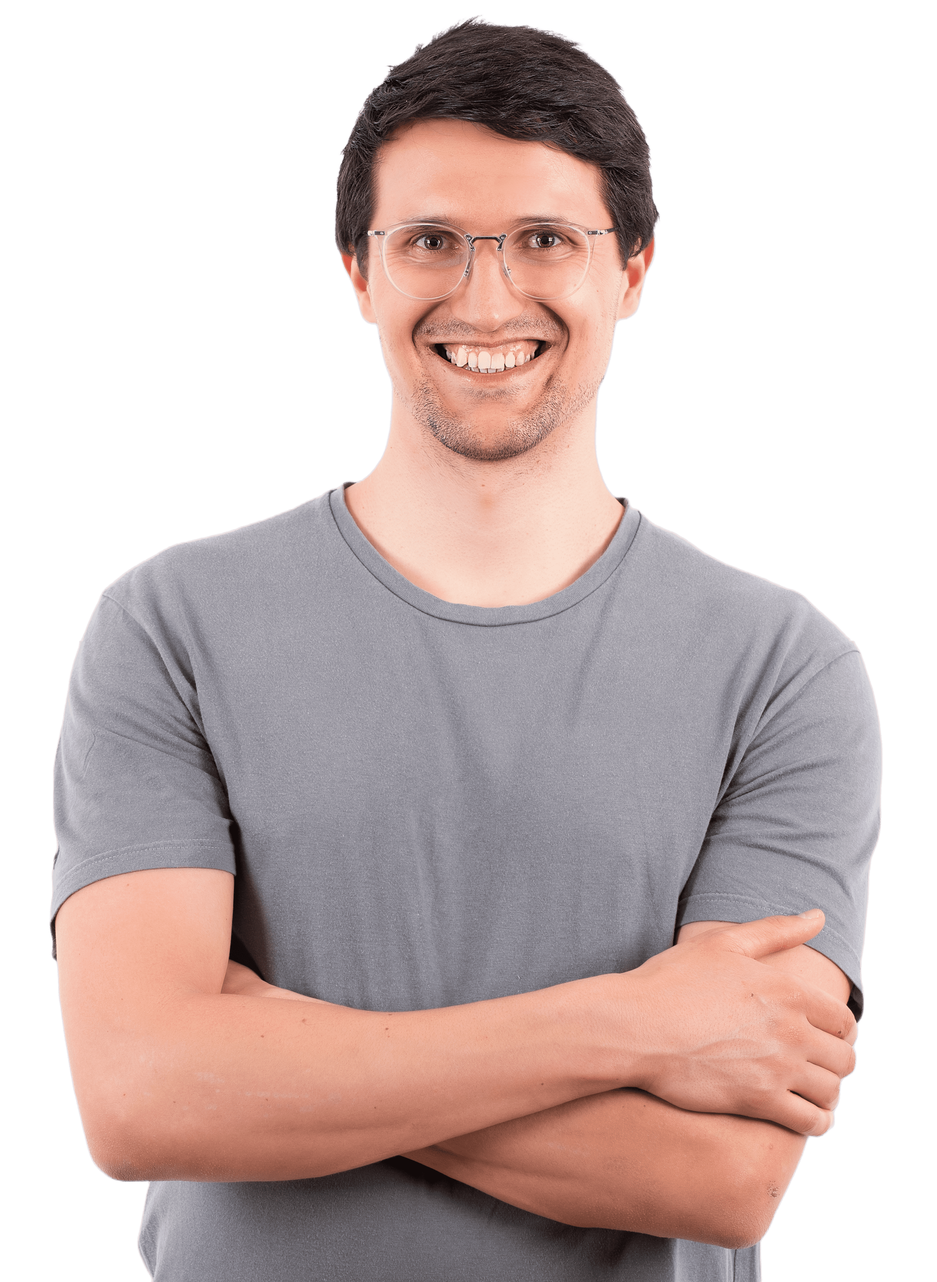
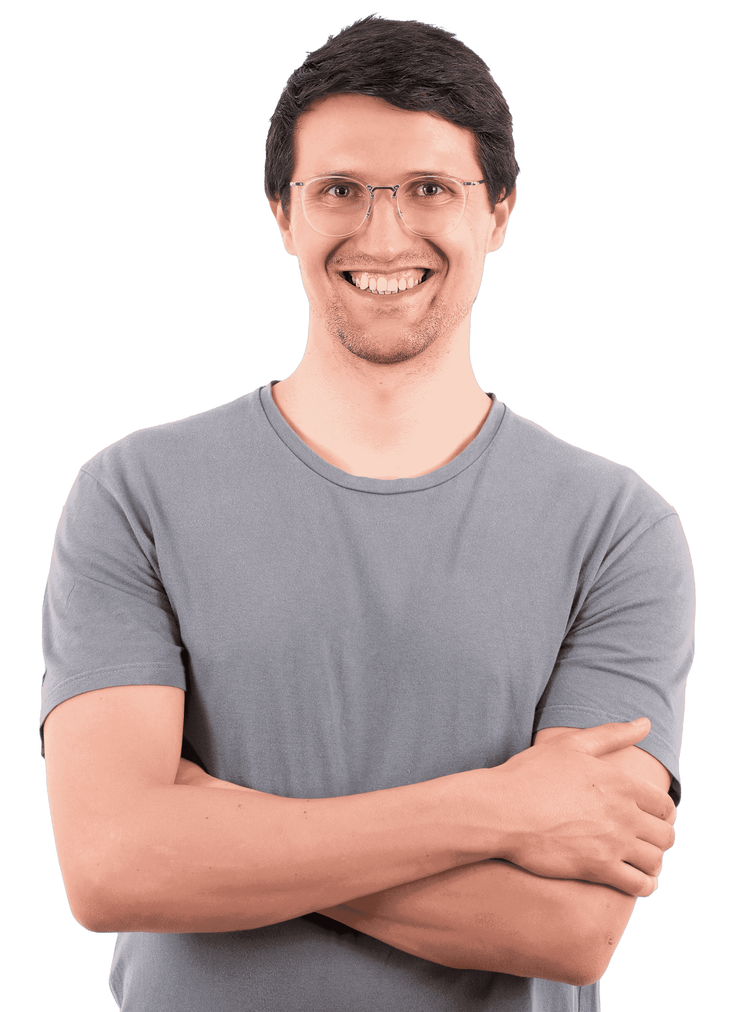
test commit

diff --git a/src/app/contact/contact.component.html b/src/app/contact/contact.component.html
@@ -3,11 +3,12 @@
         <div class="left-column">
             <div>
                 <div class="line-left"></div>
-                <h1 data-aos="fade-right" translate>Contact</h1>
+                <h1 data-aos="fade-right" data-aos-once="true" translate>Contact</h1>
             </div>
-            <div data-aos="fade-right">
+            <div data-aos="fade-right" data-aos-once="true">
                 <h2 translate>Got a problem to solve?</h2>
-                <p translate>Contact me through this form, I am interested in hearing you, knowing your ideas and contributing to
+                <p translate>Contact me through this form, I am interested in hearing you, knowing your ideas and
+                    contributing to
                     your
                     projects with my work.</p>
                 <p translate>Need a Frontend developer? <b translate>Contact me!</b></p>
@@ -15,22 +16,21 @@
         </div>
         <div class="right-column">
             <form (submit)="sendMail()" ngNativeValidate #myForm>
-                <input id="name" required placeholder="Your name" type="text" name="name"
-                    pattern="([a-zA-ZäöüÄÖÜß]+\s+){1,10}([a-zA-ZäöüÄÖÜß]+)"
-                    title="Bitte gib eine Vor- und Nachnamen ein!" #nameField data-aos="fade-left">
+                <input id="name" required placeholder="Your name" type="text" name="name" #nameField
+                    data-aos="fade-left" data-aos-once="true">
                 <input id="mail" required placeholder="Your email" type="email" name="mail"
                     pattern="(?:[a-z0-9!#$%&'*+/=?^_`{|}~-]+(?:\.[a-z0-9!#$%&'*+/=?^_`{|}~-]+)*|\u0022(?:[\x01-\x08\x0b\x0c\x0e-\x1f\x21\x23-\x5b\x5d-\x7f]|\\[\x01-\x09\x0b\x0c\x0e-\x7f])*\u0022)@(?:(?:[a-z0-9](?:[a-z0-9-]*[a-z0-9])?\.)+[a-z0-9](?:[a-z0-9-]*[a-z0-9])?|\[(?:(?:25[0-5]|2[0-4][0-9]|[01]?[0-9][0-9]?)\.){3}(?:25[0-5]|2[0-4][0-9]|[01]?[0-9][0-9]?|[a-z0-9-]*[a-z0-9]:(?:[\x01-\x08\x0b\x0c\x0e-\x1f\x21-\x5a\x53-\x7f]|\\[\x01-\x09\x0b\x0c\x0e-\x7f])+)\])"
-                    title="Gib eine gültige E-Mail-Adresse ein! Umlaute sind nicht erlaubt!" #mailField
-                    data-aos="fade-left">
+                    #mailField data-aos="fade-left" data-aos-once="true">
                 <textarea id="message" required placeholder="Your message" type="text" name="message" #messageField
-                    data-aos="fade-left"></textarea>
-                <div class="button-container" data-aos="fade-left">
-                    <button id="sendButton" #sendButton class="btn-orange" [ngClass]="{'confirmation': messageSent === true}" translate>Send message :)</button>
+                    data-aos="fade-left" data-aos-once="true"></textarea>
+                <div class="button-container" data-aos="fade-left" data-aos-once="true">
+                    <button id="sendButton" #sendButton class="btn-orange"
+                        [ngClass]="{'confirmation': messageSent === true}" translate>Send message :)</button>
                 </div>
             </form>
         </div>
-    </div> 
-    <div class="lower-container" data-aos="fade-up">
+    </div>
+    <div class="lower-container" data-aos="fade-up" data-aos-once="true">
         <a (click)="scrollToStart()">
             <img #arrowUp src="../../assets/img/go-up.png"
                 (mouseover)="changeImgSrc('../../assets/img/go-up-orange.png')"

diff --git a/src/app/my-skills/my-skills.component.html b/src/app/my-skills/my-skills.component.html
@@ -2,65 +2,65 @@
     <img class="splash-my-skills" src="../../assets/img/splash-my-skills.png" alt="splash-my-skills">
     <div class="icons-container">
         <div class="icons-inner-container">
-            <div data-aos="zoom-in">
+            <div data-aos="zoom-in" data-aos-once="true">
                 <img src="../../assets/img/angular.png">
                 <span>Angular</span>
             </div>
 
-            <div data-aos="zoom-in">
+            <div data-aos="zoom-in" data-aos-once="true">
                 <img src="../../assets/img/typescript.png">
                 <span>TypeScript</span>
             </div>
 
-            <div data-aos="zoom-in">
+            <div data-aos="zoom-in" data-aos-once="true">
                 <img src="../../assets/img/javascript.png">
                 <span>JavaScript</span>
             </div>
 
-            <div data-aos="zoom-in">
+            <div data-aos="zoom-in" data-aos-once="true">
                 <img src="../../assets/img/html.png">
                 <span>HTML</span>
             </div>
 
-            <div data-aos="zoom-in">
+            <div data-aos="zoom-in" data-aos-once="true">
                 <img src="../../assets/img/firebase.png">
                 <span>Firebase</span>
             </div>
 
-            <div data-aos="zoom-in">
+            <div data-aos="zoom-in" data-aos-once="true">
                 <img src="../../assets/img/git.png">
                 <span>Git</span>
             </div>
 
-            <div data-aos="zoom-in">
+            <div data-aos="zoom-in" data-aos-once="true">
                 <img src="../../assets/img/css.png">
                 <span>CSS</span>
             </div>
 
-            <div data-aos="zoom-in">
+            <div data-aos="zoom-in" data-aos-once="true">
                 <img src="../../assets/img/scrum.png">
                 <span>Scrum</span>
             </div>
 
-            <div data-aos="zoom-in">
+            <div data-aos="zoom-in" data-aos-once="true">
                 <img src="../../assets/img/rest-api.png">
                 <span>API</span>
             </div>
 
-            <div data-aos="zoom-in">
+            <div data-aos="zoom-in" data-aos-once="true">
                 <img src="../../assets/img/material-design.png">
                 <span>Material Design</span>
             </div>
         </div>
     </div>
     <div class="skill-container">
-        <div class="head-skill" data-aos="fade-left">
+        <div class="head-skill" data-aos="fade-left" data-aos-once="true">
             <h1 translate>My skills</h1>
             <div class="line-right"></div>
         </div>
         <div class="skill-text">
-            <span data-aos="fade-left" translate>I have been able to grow my developement skills while creating various real projects. Have a look!</span>
-            <a (click)="scrollToSection('contact')"><button class="btn-orange" data-aos="fade-up" translate>Get in touch</button></a>
+            <span data-aos="fade-left" data-aos-once="true" translate>I have been able to grow my developement skills while creating various real projects. Have a look!</span>
+            <a (click)="scrollToSection('contact')"><button class="btn-orange" data-aos="fade-up" data-aos-once="true" translate>Get in touch</button></a>
         </div>
     </div>
 </section>

diff --git a/src/app/about-me/about-me.component.html b/src/app/about-me/about-me.component.html
@@ -1,22 +1,22 @@
 <section id="about-me" class="about-me">
     <div class="container-left">
         <div class="container-left-inner">
-            <h1 data-aos="fade-right" translate>About me</h1>
-            <p data-aos="fade-right" translate>I am a front-end developer based in Tübingen, Germany with experience in
+            <h1 data-aos="fade-right" data-aos-once="true" translate>About me</h1>
+            <p data-aos="fade-right" data-aos-once="true" translate>I am a front-end developer based in Tübingen, Germany with experience in
                 building web apps using JavaScript & Angular. My journey in IT began many years ago during my studies
                 when I started to write simple add-on programs using Python in order to analyze spatial data using
                 graphical information systems.</p>
-            <div class="text-container" data-aos="fade-right">
+            <div class="text-container" data-aos="fade-right" data-aos-once="true">
                 <div>
                     <img class="lamp" src="../../assets/img/lamp.png" alt="lamp">
                 </div>
                 <p translate>That experience sparked my interest in the field, and my passion for programming has never
                     faded. Since then, I have continued to dive deeper into the world of technology and have explored
-                    variousprogramming languages and tools. Close contact with my father-in-law, a self-taught and
-                    experiencedweb developer, has also fed my enthusiasm to become a developer myself and given me
+                    various programming languages and tools. Close contact with my father-in-law, a self-taught and
+                    experienced web developer, has also fed my enthusiasm to become a developer myself and given me
                     important insights into the world of professional development.</p>
             </div>
-            <div class="text-container" data-aos="fade-right">
+            <div class="text-container" data-aos="fade-right" data-aos-once="true">
                 <div>
                     <img src="../../assets/img/puzzle.png" alt="puzzle">
                 </div>
@@ -27,7 +27,7 @@
             </div>
         </div>
     </div>
-    <div class="container-right" data-aos="fade-left">
+    <div class="container-right" data-aos="fade-left" data-aos-once="true">
         <div class="img-container">
             <div class="img-inner-container">
                 <img src="../../assets/img/head.png" alt="foto-head">

diff --git a/src/app/start-screen/start-screen.component.scss b/src/app/start-screen/start-screen.component.scss
@@ -84,7 +84,7 @@
     }
 
     @media screen and (max-height: 900px) and (max-width: 992px) {
-        top: 180px;
+        top: 200px;
     }
 
     @media screen and (max-width: 900px) and (min-height: 950px) {
@@ -100,17 +100,24 @@
     }
 
     @media screen and (max-width: 900px) and (min-height: 1300px) {
-        top: 350px;
+        top: 400px;
+    }
+
+    @media screen and (max-width: 900px) and (min-height: 1350px) {
+        top: 450px;
+    }
+
+    @media screen and (max-width: 900px) and (min-height: 1400px) {
+        top: 500px;
     }
 
     @media screen and (max-height: 800px) and (max-width: 992px) {
         width: 300px;
-        top: 190px;
+        top: 220px;
     }
 
     @media screen and (max-height: 750px) and (max-width: 992px) {
         width: 250px;
-        top: 190px;
     }
 
     @media screen and (max-height: 700px) and (max-width: 992px) {
@@ -120,6 +127,10 @@
 
     @media screen and (max-height: 650px) and (max-width: 992px) {
         width: 200px;
+    }
+
+    @media screen and (max-height: 600px) and (max-width: 992px) {
+        width: 180px;
         top: 230px;
     }
 }
@@ -159,6 +170,11 @@
     @media screen and (max-height: 800px) and (max-width: 900px) {
         top: 200px;
         width: 400px;
+    }
+
+    @media screen and (max-height: 700px) and (max-width: 900px) {
+        top: 200px;
+        width: 250px;
     }
 }
 

diff --git a/src/app/project/project.component.html b/src/app/project/project.component.html
@@ -1,4 +1,4 @@
-<div class="project-container" [ngClass]="{'reversed': indexImpair === true}" data-aos="fade-up">
+<div class="project-container" [ngClass]="{'reversed': indexImpair === true}" data-aos="fade-up" data-aos-once="true">
     <div class="img-container">
         <div [ngClass]="{'jc-flex-end': indexImpair === false}">
             <img src="../../assets/img/{{img}}-screen.png" alt="{{img}}-screen">
@@ -13,9 +13,9 @@
             <span [ngClass]="{'text-end': indexImpair === true}" translate>{{ explanation }}</span>
         </div>
         <div class="button-box" [ngClass]="{'jc-flex-end': indexImpair === true}">
-            <a href="https://{{web}}.hans-stieber.com" target="_blank" data-aos="fade-up"><button
-                    class="b1" translate>Live test</button></a>
-            <a href="{{git}}" target="_blank"><button class="b2" data-aos="fade-up">Github</button></a>
+            <a href="https://{{web}}.hans-stieber.com" target="_blank" data-aos="fade-up" data-aos-once="true"><button class="b1"
+                    translate>Live test</button></a>
+            <a href="{{git}}" target="_blank"><button class="b2" data-aos="fade-up" data-aos-once="true">Github</button></a>
         </div>
     </div>
 </div>

diff --git a/src/app/portfolio/portfolio.component.html b/src/app/portfolio/portfolio.component.html
@@ -1,10 +1,10 @@
 <section id="portfolio" class="portfolio">
-    <div class="headline-container" data-aos="fade-left">
+    <div class="headline-container" data-aos="fade-left" data-aos-once="true">
         <div></div>
         <h1 translate>Portfolio</h1>
         <div></div>
     </div>
-    <div data-aos="fade-right">
+    <div data-aos="fade-right" data-aos-once="true">
         <span class="underline" translate>
             This page is a sample of my work - Please feel free to try them out.
         </span>

diff --git a/src/index.html b/src/index.html
@@ -4,7 +4,7 @@
   <meta charset="utf-8">
   <title>Hans Stieber - Frontend Developer</title>
   <base href="/">
-  <meta name="viewport" content="width=device-width, initial-scale=1">
+  <meta name="viewport" content="width=device-width, initial-scale=1.0">
   <link rel="icon" type="image/x-icon" href="favicon.ico">
 </head>
 <body>

diff --git a/src/app/start-screen/start-screen.component.html b/src/app/start-screen/start-screen.component.html
@@ -1,5 +1,5 @@
 <section id="start-screen" class="start-screen">
-    <div class="introduction-container" data-aos="zoom-in">
+    <div class="introduction-container" data-aos="zoom-in" data-aos-once="true">
         <div>
             <div>
                 <span class="i-am">I am</span>
